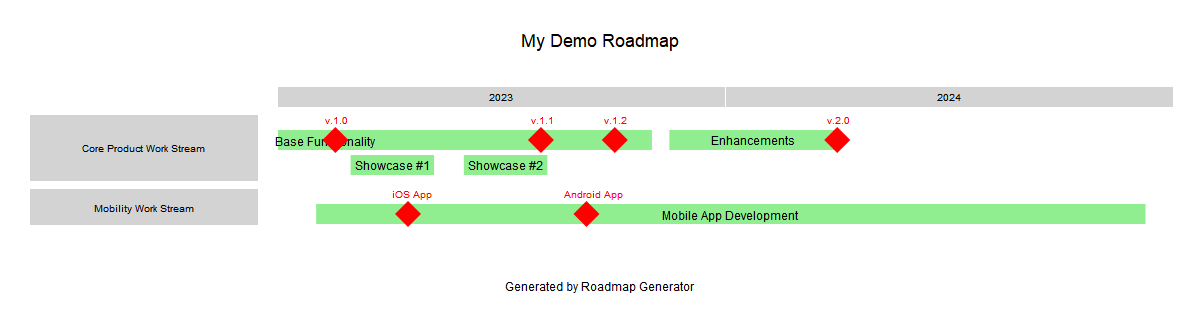
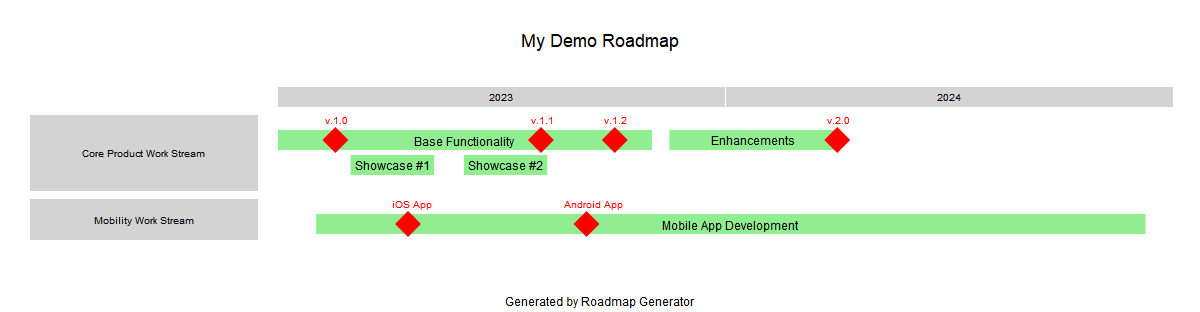
Fixed issue #3 & yearly task text alignment issue

diff --git a/demo.py b/demo.py
@@ -77,10 +77,41 @@ def demo02(
     roadmap.save(file_name)
 
 
+def demo03(
+    mode: TimelineMode = TimelineMode.MONTHLY,
+    start_date: str = "2023-01-01",
+    number_of_items: int = 12,
+    file_name: str = "demo01.png",
+) -> None:
+    roadmap = Roadmap(1200, 312)
+    roadmap.set_title(
+        "My Demo Roadmap", font_colour="Salmon", font="Arial", font_size=28
+    )
+    roadmap.set_timeline(mode, start_date, number_of_items)
+    with roadmap.add_group("Core Product Work Stream") as group:
+        with group.add_task("Base Functionality", "2022-11-01", "2023-10-31") as task:
+            task.add_milestone("v.1.0", "2023-02-15")
+            task.add_milestone("v.1.1", "2023-08-01")
+            with task.add_parellel_task(
+                "Enhancements", "2023-11-15", "2024-03-31"
+            ) as task1a:
+                task1a.add_milestone("v.2.0", "2024-03-30")
+        with group.add_task("Showcase #1", "2023-03-01", "2023-05-07") as task:
+            with task.add_parellel_task(
+                "Showcase #2a", "2023-06-01", "2023-08-07"
+            ) as _:
+                pass
+
+    # roadmap.set_footer("Generated by Roadmap Generator")
+    roadmap.draw()
+    roadmap.save(file_name)
+
+
 demo01(file_name="demo01.png")
 demo01(TimelineMode.WEEKLY, "2023-02-01", 16, "demo02.png")
 demo01(TimelineMode.QUARTERLY, "2023-02-01", 4, "demo03.png")
 demo01(TimelineMode.HALF_YEARLY, "2023-02-01", 3, "demo04.png")
 demo01(TimelineMode.YEARLY, "2023-02-01", 2, "demo05.png")
 
-demo02(file_name="demo06.png")
+# demo02(file_name="demo06.png")
+# demo03(file_name="demo07.png")

diff --git a/generator/task.py b/generator/task.py
@@ -310,6 +310,8 @@ class Task:
                     else:
                         # print("-->task starts before this timeline")
                         self.box_x = timeline_item.box_x
+                        if bar_start_x_pos == 0:
+                            bar_start_x_pos = self.box_x
                         self.box_width = timeline_item.box_width * end_pos_percentage
                 elif (  # Check [timeline_start....<task_start>.....timeline_end]
                     task_start_period >= timeline_start_period

diff --git a/generator/timeline.py b/generator/timeline.py
@@ -215,7 +215,7 @@ class Timeline:
             timeline_end_period = timeline_end_period.replace(
                 hour=0, minute=0, second=0, microsecond=0
             )
-            print(f"{timeline_start_period=}, {timeline_end_period=}")
+            # print(f"{timeline_start_period=}, {timeline_end_period=}")
         elif self.mode == TimelineMode.MONTHLY:
             this_month = (self.start + relativedelta(months=+index)).month
             this_year = (self.start + relativedelta(months=+index)).year

diff --git a/generator/roadmap.py b/generator/roadmap.py
@@ -216,7 +216,8 @@ class Roadmap:
         if self.marker != None:
             self.marker.draw(self.__painter)
         # self.marker.draw(self.__painter)
-        self.footer.draw(self.__painter)
+        if self.footer != None:
+            self.footer.draw(self.__painter)
 
     def save(self, filename: str) -> None:
         """Save surface to PNG file

diff --git a/generator/group.py b/generator/group.py
@@ -110,6 +110,7 @@ class Group:
         self.box_height = (
             (20 * task_count)
             + (additional_height_for_milestone * milestone_count)
+            + (5 * task_count)
             + (2 * (task_count - 1))
         )
         self.box_width = (
